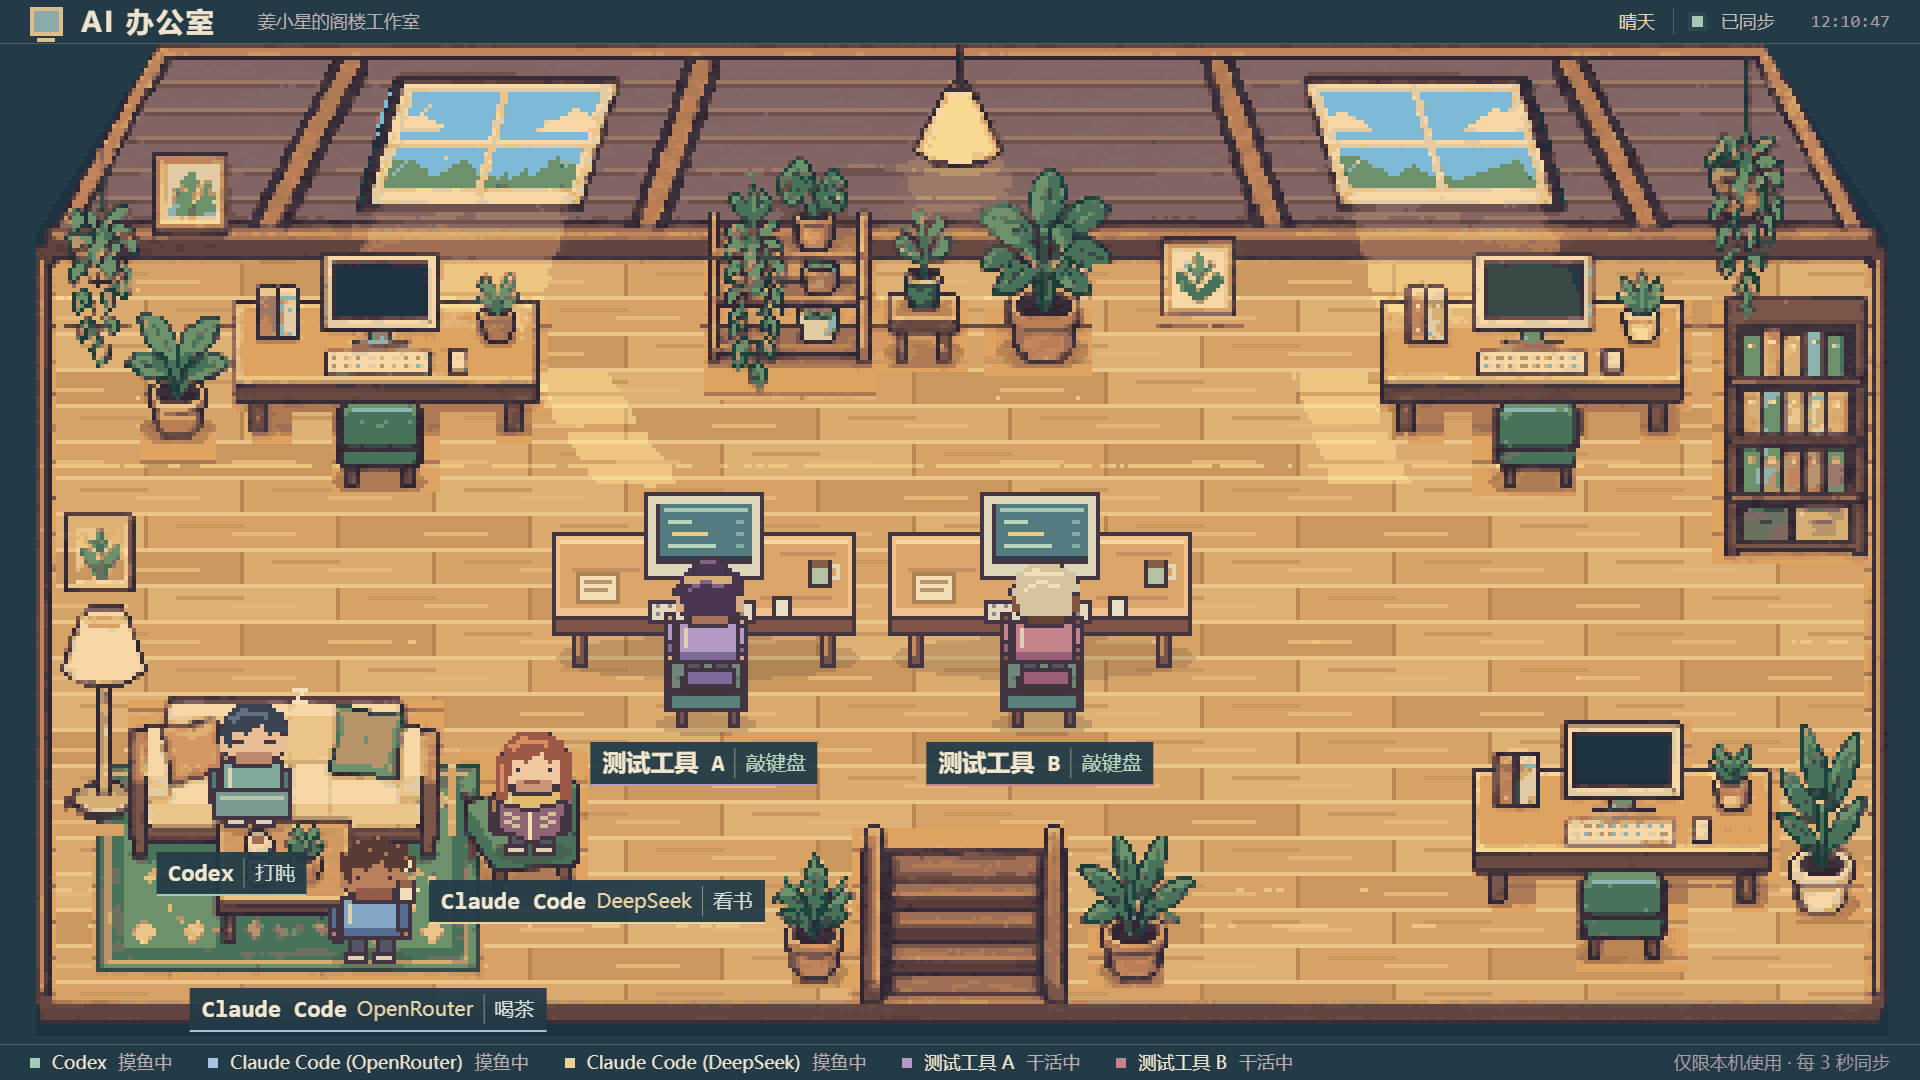
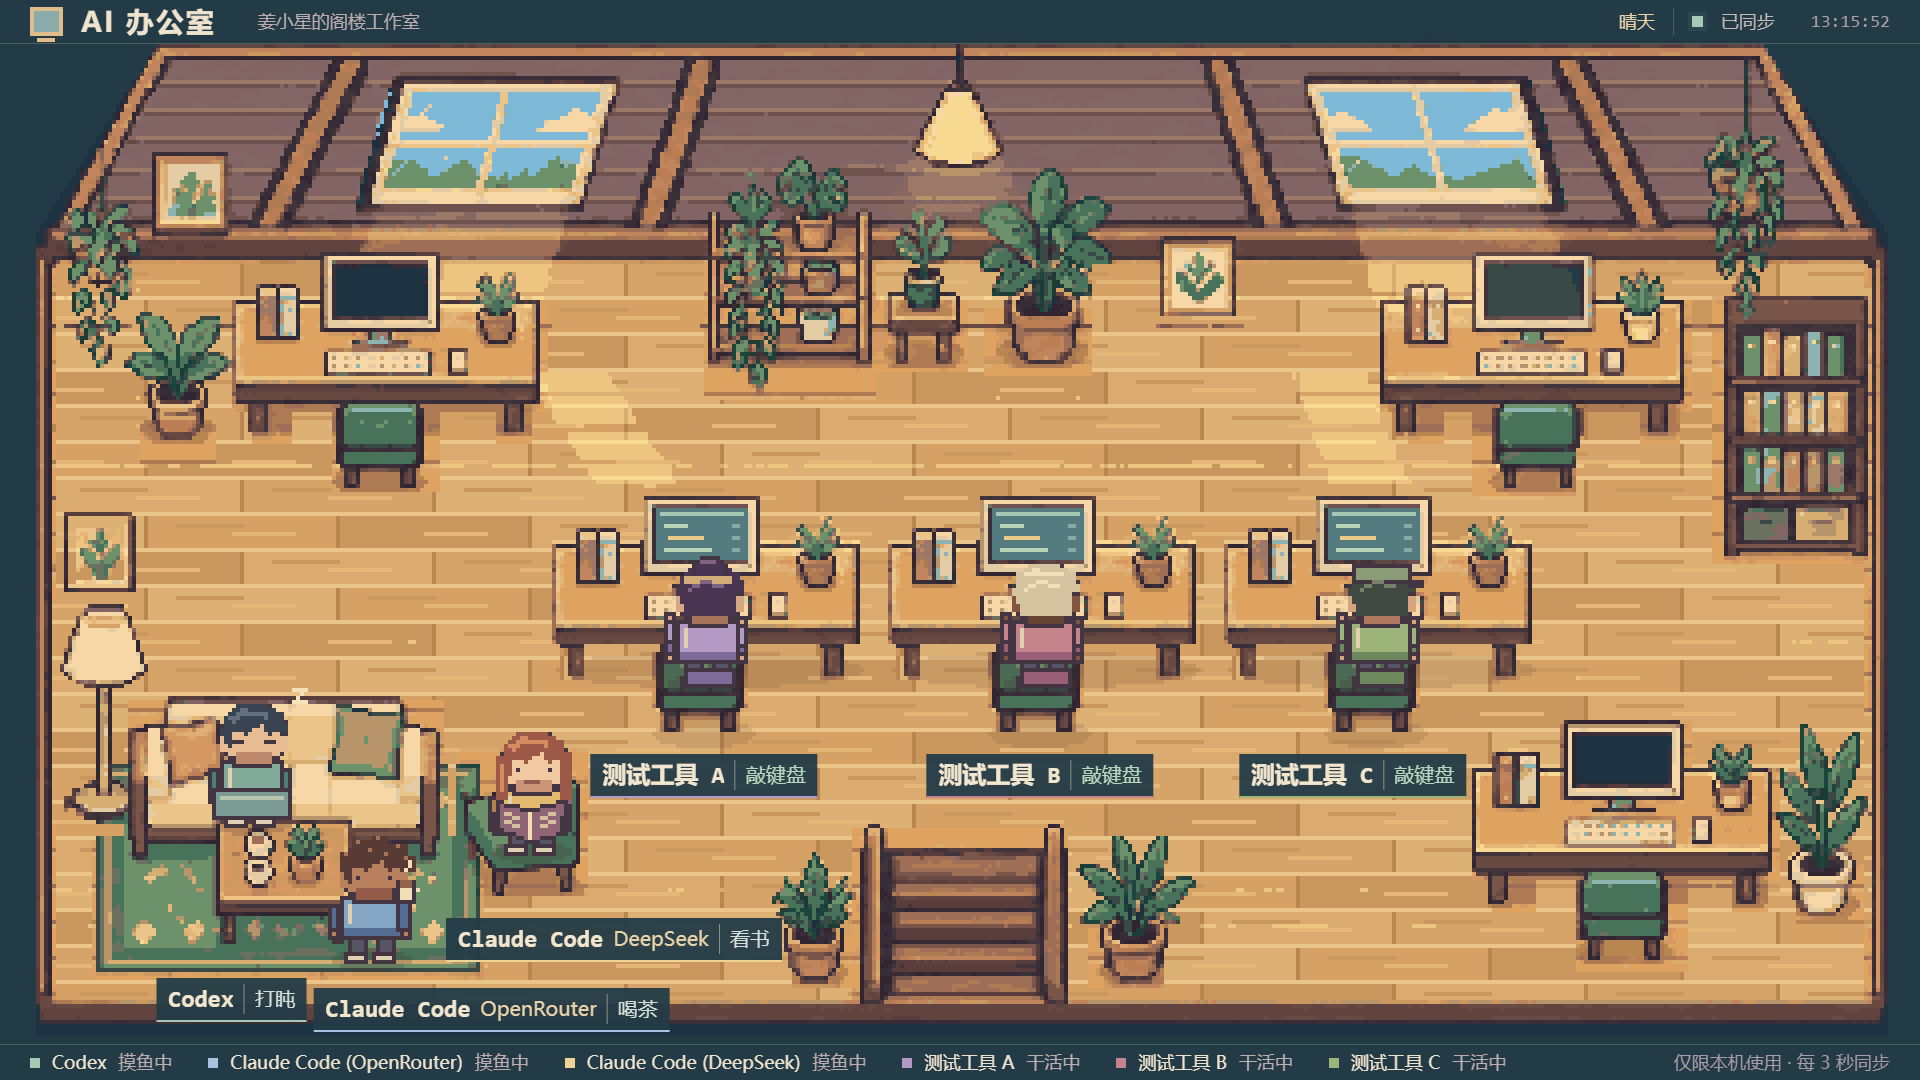
统一阁楼新增工位素材并完善六人布局验收

diff --git a/static/office.js b/static/office.js
@@ -35,14 +35,29 @@
       { seat: { x: 384, y: 118 }, screen: { x: 372, y: 66, w: 23, h: 13 } },
       { seat: { x: 406, y: 237 }, screen: { x: 394, y: 184, w: 23, h: 13 } },
       ...[176, 260, 344].map(x => ({ seat: { x, y: 179 },
-        screen: { x: x - 11, y: 126, w: 23, h: 13 },
-        furniture: { x: x - 39, y: 122, w: 78, h: 62 },
-        block: { x: x - 39, y: 133, w: 78, h: 34 } })),
+        screen: { x: x - 12, y: 127, w: 23, h: 13 },
+        furniture: { x: x - 38, y: 124, w: 78, h: 63 },
+        block: { x: x - 38, y: 138, w: 77, h: 27 } })),
     ];
     const desks = actors.map(a => ({ ...slots[a.slot], id: a.id, slot: a.slot }));
     return {
       ...ROOM,
       desks,
+      // Visual extents differ from floor collision footprints. Labels must also
+      // preserve the room's original furnishings, not just the generated desks.
+      protected: [
+        { x: 58, y: 63, w: 78, h: 60 }, { x: 345, y: 63, w: 77, h: 60 },
+        { x: 368, y: 180, w: 77, h: 61 }, // original desks and chairs
+        { x: 13, y: 151, w: 20, h: 54 }, // floor lamp
+        { x: 30, y: 173, w: 80, h: 70 }, { x: 114, y: 183, w: 31, h: 45 },
+        { x: 197, y: 207, w: 97, h: 47 }, // stairs and flanking plants
+        { x: 430, y: 74, w: 37, h: 65 }, { x: 177, y: 52, w: 42, h: 42 },
+        { x: 90, y: 17, w: 66, h: 37 }, { x: 326, y: 19, w: 62, h: 35 },
+        { x: 228, y: 20, w: 24, h: 23 }, // pendant and windows
+        { x: 27, y: 76, w: 29, h: 36 }, { x: 445, y: 181, w: 24, h: 49 },
+        { x: 221, y: 40, w: 53, h: 52 }, // rear plant nook
+        ...desks.filter(d => d.furniture).map(d => d.furniture),
+      ],
       blocks: [
         { x: 58, y: 77, w: 77, h: 27 },
         { x: 345, y: 77, w: 77, h: 27 },
@@ -60,8 +75,8 @@
       spots: [
         { x: 62, y: 208, action: 'sleep' }, { x: 94, y: 202, action: 'sleep' },
         { x: 92, y: 242, action: 'tea' }, { x: 174, y: 225, action: 'tea' },
-        { x: 132, y: 215, action: 'read' }, { x: 184, y: 184, action: 'read' },
-        { x: 310, y: 244, action: 'read' }, { x: 350, y: 210, action: 'tea' },
+        { x: 132, y: 215, action: 'read' }, { x: 310, y: 225, action: 'read' },
+        { x: 310, y: 244, action: 'read' }, { x: 350, y: 225, action: 'tea' },
         { x: 42, y: 148, action: 'tea' },
       ],
     };
@@ -72,7 +87,7 @@
     // The supplied PNG is an exact 4x nearest-neighbor enlargement of this grid.
     c.drawImage(background,0,0,ROOM.w,ROOM.h);
     for(const d of layout.desks)if(d.furniture) {
-      sprite('chair',d.seat.x-13,d.seat.y-22,c);
+      sprite('chair',d.seat.x-13,d.seat.y-19,c);
       sprite('desk',d.furniture.x,d.furniture.y,c);
     }
     weather=AtticWeather.create(scene);
@@ -234,14 +249,18 @@
     const overlaps=(p,q)=>p.x<q.x+q.w+3&&p.x+p.w+3>q.x&&p.y<q.y+q.h+3&&p.y+p.h+3>q.y;
     const plates=actors.map(a=>({a,w:a.label.offsetWidth,h:a.label.offsetHeight,
       cx:layout.ox+Math.round(a.x)*scale,y:layout.oy+(Math.round(a.y)+2)*scale+12}));
+    // Typing frames change the sprite, not its bounds. Reuse placement while
+    // everyone is still, rather than solve the same furniture avoidance at 60Hz.
+    const key=[ww,wh,scale,top,bottom,...actors.flatMap((a,i)=>[
+      Math.round(a.x),Math.round(a.y),a.mode,plates[i].w,plates[i].h])].join('|');
+    if(labels.layoutKey===key)return;labels.layoutKey=key;
+    const furniture=layout.protected.map(d=>({
+      x:layout.ox+d.x*scale,y:layout.oy+d.y*scale,w:d.w*scale,h:d.h*scale}));
     const placed=[];
     for(const p of plates.sort((a,b)=>a.y-b.y||a.a.index-b.a.index)) {
-      const clampX=x=>Math.max(6,Math.min(ww-p.w-6,x));
+      const clampX=x=>Math.max(2,Math.min(ww-p.w-2,x));
       const x=clampX(p.cx-p.w/2);
       const desired=Math.min(bottom-p.h,p.y);
-      const furniture=layout.desks.filter(d=>d.furniture).map(d=>({
-        x:layout.ox+d.furniture.x*scale,y:layout.oy+d.furniture.y*scale,
-        w:d.furniture.w*scale,h:d.furniture.h*scale}));
       const obstacles=[...bodies,...furniture,...placed];
       const ys=[desired,...obstacles.flatMap(q=>[q.y+q.h+6,q.y-p.h-6])];
       const xs=[x,...obstacles.flatMap(q=>[clampX(q.x-p.w-6),clampX(q.x+q.w+6)])];
@@ -273,7 +292,7 @@
     updateLabels();requestAnimationFrame(render);
   }
   function createLabels() {
-    labels.replaceChildren();
+    labels.replaceChildren();labels.layoutKey=null;
     for(const a of actors) {
       const el=document.createElement('div');el.className='nameplate';el.style.setProperty('--agent-color',a.color);
       el.title=a.rosterName;
@@ -334,6 +353,7 @@
         target:initialized?destination(a):null,walkable:initialized?walkable(a.x,a.y):false,
         monitorOn:a.mode==='type'&&a.requested==='working'})),
       obstacles:layout?.blocks.map(b=>({...b})),stations:layout?.desks.map(d=>({...d})),
+      protected:layout?.protected.map(b=>({...b})),
       spots:layout?.spots.map(p=>({...p,walkable:walkable(p.x,p.y)})),
     }),
   }),writable:false});

diff --git a/scripts/draw_assets.py b/scripts/draw_assets.py
@@ -102,6 +102,43 @@ def furniture():
     box(d,(7,0,20,9),'#58716c',INK);box(d,(9,1,18,4),'#90a396')
     for x in (30,39):box(d,(x,3,x+5,9),'#eee0bd',INK)
 
+def attic_furniture():
+    """Reuse the approved room's furniture pixels, without copying its floor/wall.
+
+    These masks are measured on attic-bg-2's native grid. Keeping the atlas slots
+    the same size preserves every resident frame and all existing metadata.
+    """
+    background = Image.open(OUT / 'attic-bg-2.png').convert('RGBA')
+    native = background.resize((480, 270), Image.Resampling.NEAREST)
+    assert native.resize(background.size, Image.Resampling.NEAREST).tobytes() == background.tobytes()
+
+    def cutout(name, origin, size, polygons, shadow):
+        im, d = art(name, size)
+        d.ellipse(shadow, fill=(88, 57, 39, 36))
+        mask = Image.new('L', size)
+        md = ImageDraw.Draw(mask)
+        ox, oy = origin
+        for polygon in polygons:
+            md.polygon([(x-ox, y-oy) for x,y in polygon], fill=255)
+        source = native.crop((ox, oy, ox+size[0], oy+size[1]))
+        im.paste(source, (0, 0), mask)
+
+    cutout('desk', (58, 63), (78, 48), [
+        [(58,74),(134,74),(134,99),(58,99)],
+        [(81,63),(109,63),(109,82),(81,82)],
+        [(64,71),(74,71),(74,85),(64,85)],
+        [(117,73),(119,73),(119,70),(121,70),(122,73),(124,73),
+         (125,68),(127,68),(127,71),(129,71),(129,77),(127,80),
+         (128,82),(127,86),(120,86),(118,84),(118,79),(117,77)],
+        [(60,99),(65,99),(65,108),(60,108)],
+        [(125,99),(130,99),(130,108),(125,108)],
+    ], (1, 39, 77, 47))
+    cutout('chair', (83, 99), (26, 27), [
+        [(85,100),(104,100),(104,102),(106,102),(106,115),
+         (104,117),(104,121),(100,121),(100,118),(90,118),
+         (90,121),(85,121),(85,117),(83,115),(83,102),(85,102)],
+    ], (0, 20, 25, 26))
+
 PALETTES = [
     dict(id='moss',hair='#394352',highlight='#637080',shirt='#81aa9a',shade='#4d7d78',skin='#e9bd94',shadow='#bd886c',style='glasses'),
     dict(id='sky',hair='#583b35',highlight='#a57454',shirt='#84a5c3',shade='#556d93',skin='#b9805e',shadow='#955b49',style='curls'),
@@ -178,6 +215,7 @@ def character(p,action,direction,frame):
     if side and direction==1:sprites[key]=im.transpose(Image.Transpose.FLIP_LEFT_RIGHT)
 
 furniture()
+attic_furniture()
 for palette in PALETTES:
     for direction in range(4):
         for frame in range(4):character(palette,'walk',direction,frame)

diff --git a/tests/verify_screenshots.py b/tests/verify_screenshots.py
@@ -3,7 +3,7 @@ from PIL import Image
 import json
 import sys
 root = Path(__file__).resolve().parents[1]
-for name in sys.argv[1:] or ('attic-idle.png', 'attic-work.png', 'attic-weather.png'):
+for name in sys.argv[1:] or ('attic-idle.png', 'attic-work.png', 'attic-weather.png', 'attic-six.png'):
     im = Image.open(root / 'preview' / name).convert('RGB')
     assert im.size == (1920, 1080), im.size
     # Run the matching browser capture first to record each image's HTML overlay bounds.

diff --git a/docs/desk-layout-research.md b/docs/desk-layout-research.md
@@ -35,3 +35,12 @@
 - 临时向 `config/tools.json` 加入 A/B/C 三项测试工具，以实际存在的 `explorer.exe` 检测为干活，重启真实后端后截 `preview/attic-six.png`。不用浏览器伪造六人接口。
 - 保存原始配置字节，验收后原样恢复并核对 SHA-256，再次重启，截正常状态 `preview/attic-work.png`。两图为 1920×1080；只在截图浏览器固定晴天时刻以便核对家具，生产时钟不变。
 - 后端隐藏窗口运行且 `127.0.0.1:8889` 可用；只做本地简体中文 Git 提交，不提交 `preview/attic-bg-1.png`。
+
+## 本次实测结果
+
+- 检测回归 `test_detectors.py`（9 项）、`verify-office.cjs`、`verify-labels.cjs`、`weather-clock.cjs`、`verify-weather.cjs`、`verify-dynamic.cjs`、真实私人小站 `verify-site.cjs` 全部通过；`provider_scenarios.py` 由办公室测试调用。
+- `--live6` 实测六个角色，后三人均为 `working / type / monitorOn=true`；原三工具保留真实状态。`--live3` 在配置恢复及重启后通过。
+- `verify_screenshots.py` 四图通过：`attic-idle` / `attic-work` / `attic-weather` / `attic-six` 分别核对 116382 / 116382 / 116202 / 114294 个未被文字覆盖的 4×4 像素块，无平滑像素。
[1 lines of base64/hex data omitted]
+- 恢复后健康接口返回 `ok=true`，状态接口只含三个原工具；8889 仅监听 `127.0.0.1`，实际服务为 `pythonw.exe`，`MainWindowHandle=0`。
+- 截图测试增加“已连接且三人已加载”的等待条件，避免空数组被误判为所有人已休息，导致截图和文字遮罩不同步。
